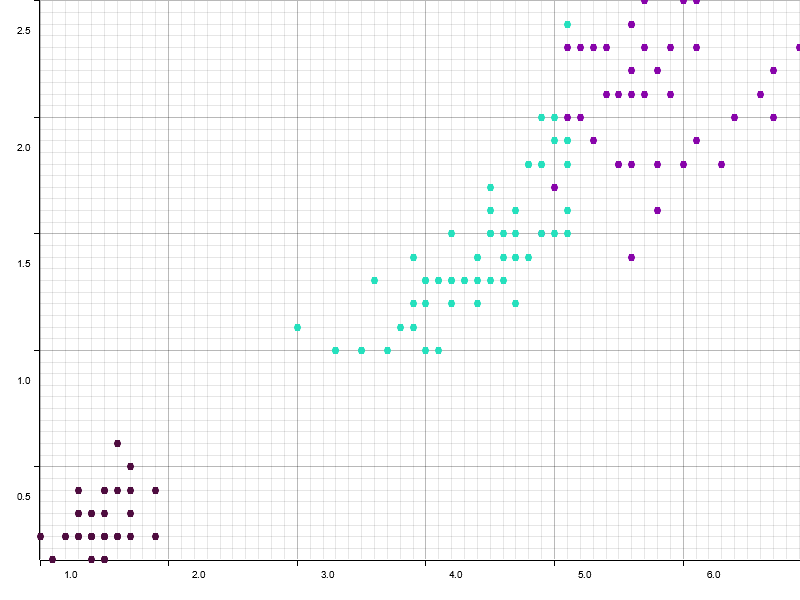
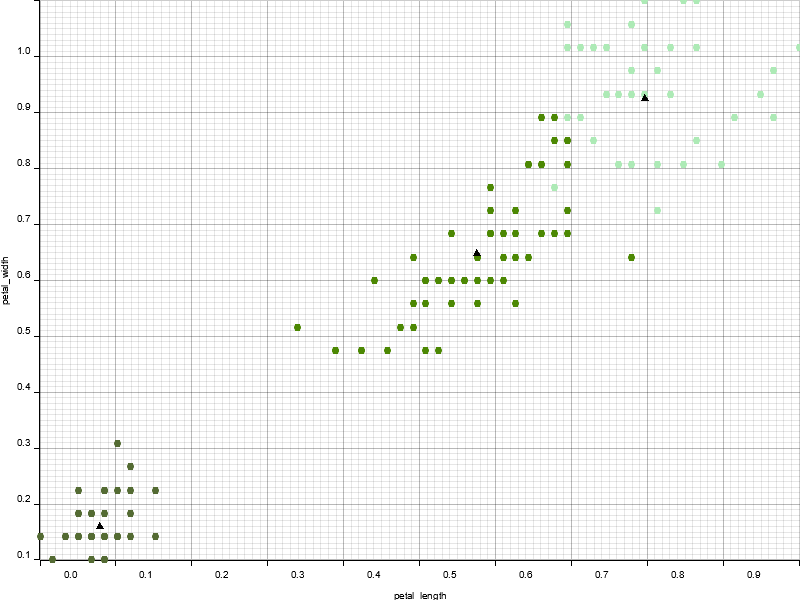
PLOTTING BETWEEN IN PNG OUTPUTS.
do not know when my next commit will be been a little busy I know this is a lot incomplete , but I did my best , the next update will be on the distributions and average feature weighting.

Changed region(s): [[0.0, 0.0, 1.0, 0.96], [0.4688, 0.99, 0.5625, 1.0]]

diff --git a/src/K_Means_Clustering/k_means_clustering.rs b/src/K_Means_Clustering/k_means_clustering.rs
@@ -32,7 +32,7 @@ use plotlib::{page::Page, repr::{Histogram, HistogramBins, Plot}, style::{BoxSty
 
 use plotters::prelude::*;
 use plotters::style::RGBColor;
-
+use plotters::prelude::Histogram as OtherHistogram;
 
 impl k_means_spec<'_> {
     
@@ -46,7 +46,7 @@ impl k_means_spec<'_> {
     /// let foo = df.print_populations();
     /// '''
     /// 
-    /// foo will be of the type vec<usize> and of length df.k.    
+    /// foo will be of the type vec<usize> and of length df.k.   
     pub fn print_populations(&self) -> Vec<usize> {
         self.cluster_populations.clone().unwrap()
     }    
@@ -64,7 +64,7 @@ impl k_means_spec<'_> {
     /// '''
     pub fn encoding_names(&mut self , Names : Vec<String>) {
         //checking for the correct number of names 
-        assert!(Names.len() == self.k , "The number of names provided do not match the k value");
+        assert!(Names.len() == self.k , "The number of names provided do not match the given k value");
 
         self.encodings = Some(Names);
 
@@ -225,7 +225,7 @@ impl k_means_spec<'_> {
         //we normalise this point if we initially normalised the data set.
         match self.normalised {
             true => for i in 0..self.number_of_features {
-                this.push((x[i] - self.min_vector[i]/self.max_vector[i] - self.min_vector[i]));
+                this.push(x[i] - self.min_vector[i]/self.max_vector[i] - self.min_vector[i]);
             },
             false => for ty in x {
                 this.push(*ty);
@@ -253,15 +253,15 @@ impl k_means_spec<'_> {
     }
     //here we write the plotting stuff.
     //we need to consider 1 , 2 , 3  or more than 3 features.
-    pub fn plot(&self , path : &str) {
+    /* pub fn plot(&self , path : &str) {
         match self.number_of_features {
             1 => (),//This is kinda sketchy, like what are we even doing? we should also plot the centroid positions.
-            2 => self.plot_two_dimension(path , 0 , 1),//we will take the names from the indexes, do not worry.
+            2 => //self.plot_two_dimension(path , 0 , 1),//we will take the names from the indexes, do not worry.
             3 => self.plot_three_dimension(path),
             4..=1000 => self.plot_more_than_three_dimen(path),   
             _  => (),//if your df has more than 1000 features or no features at all, fuck you, Ezekiel!, NO, fuck you , Tony!.   
         }    
-    }
+    } */
     
     pub fn get_distributions(&self , path : &str) {
         for i in 0..self.number_of_features {
@@ -270,11 +270,12 @@ impl k_means_spec<'_> {
         }
     }
     //this just to get the scatters of the adjacent features ,before clustering
-    pub fn get_pre_scatters(&self , path : &str) {
+    pub fn get_pre_scatters(&self , path : &str) -> Result<(), Box<dyn std::error::Error>> {
         for i in 0..self.number_of_features - 1 {
-            let image_name = format!("{}pre_scatter_plot_between_{}_and_{}.svg",path ,&self.header_names[i], &self.header_names[i + 1]);
-            self.plot_two_dimension(&image_name , i , i + 1)
+            let image_name = format!("{}pre_scatter_plot_between_{}_and_{}.png",path ,&self.header_names[i], &self.header_names[i + 1]);
+            self.plot_two_dimension(&image_name , i , i + 1)?;
         }
+        Ok(())
     }
 
     pub fn get_post_scatters(&self , path : &str) {
@@ -339,7 +340,7 @@ impl k_means_spec<'_> {
             PointStyle::new()
             .marker(PointMarker::Square)
             .colour("FFFFFF"),
-        ); *///this looks like shit .
+        ); *///this looks like shit.
 
         let v = ContinuousView::new()
             .add(h)
@@ -352,13 +353,13 @@ impl k_means_spec<'_> {
         
     }
 
-    pub fn plot_two_dimension(&self , path : &str , feature_index_1 : usize , feature_index_2 : usize ) {
+    pub fn plot_two_dimension(&self , path : &str , feature_index_1 : usize , feature_index_2 : usize ) -> Result<(), Box<dyn std::error::Error>> {
         let mut data_to_plot: Vec<(f64 , f64)> = vec![ (0.0 , 0.0) ; self.number_of_samples];
         let mut min_x = f64::INFINITY;
         let mut max_x = f64::MIN;
         let mut min_y = f64::INFINITY;
         let mut max_y = f64::MIN;
-        for (index, sample_point) in self.data.iter().enumerate() {
+        for (index, sample_point) in self.data.iter().enumerate(){
             data_to_plot[index] = (sample_point.data[feature_index_1].clone().try_into().unwrap(), sample_point.data[feature_index_2].clone().try_into().unwrap());
             if data_to_plot[index].0 > max_x {
                 max_x = data_to_plot[index].0;
@@ -372,24 +373,32 @@ impl k_means_spec<'_> {
             }
         }
 
+        let color = random_color();
         
-        let s1: Plot = Plot::new(data_to_plot).point_style(
-            PointStyle::new()
-                .marker(PointMarker::Circle) // setting the marker to be a square
-                .colour("#DD3355"),
-        ); 
+        let root = BitMapBackend::new(path , (1024 , 768)).into_drawing_area();
+        root.fill(&WHITE)?;
 
+        let mut scatter_ctx = ChartBuilder::on(&root)
+            .x_label_area_size(40)
+            .y_label_area_size(40)
+            .build_cartesian_2d(min_x..max_x, min_y..max_y)?;
+
+        scatter_ctx
+            .configure_mesh()
+            .x_desc(self.header_names[feature_index_1].to_owned())
+            .y_desc(self.header_names[feature_index_2].to_owned())
+            .draw()?;
         
-        let v = ContinuousView::new()
-            .add(s1)
-            .x_range( min_x , max_x )
-            .y_range( min_y , max_y )
-            .x_label(self.header_names[feature_index_1].clone())
-            .y_label(self.header_names[feature_index_2].clone());
+        scatter_ctx.draw_series(
+            data_to_plot
+                .iter()
+                .map(|&(x , y)| Circle::new((x , y) , 3 ,color.filled()))   
+        )?;
 
-        // A page with a single view is then saved to an SVG file.
-        Page::single(&v).save(path).unwrap();
-
+        root.present().expect("Unable to write result to file, please make sure 'plotters-doc-data' dir exists under current dir");
+    
+        Ok(())
+    
     }
     //Here we need to create different vectors and subplot them.
     //also neeed to plot the centroids wih those same features.
@@ -456,7 +465,7 @@ impl k_means_spec<'_> {
                 .unwrap();
         } 
         //now we need to plot cluster centers
-        for cluster in 0..self.k {
+        for _cluster in 0..self.k {
             chart.draw_series(self.centroids.iter() 
                 .map(|vector| TriangleMarker::new((vector[feature_index_1] , vector[feature_index_2]) , 4 , BLACK.filled()))).unwrap();
         }
@@ -467,13 +476,13 @@ impl k_means_spec<'_> {
 
     
 
-    fn plot_three_dimension(&self , path : &str) {
+    /* fn plot_three_dimension(&self , path : &str) {
 
-    }
+    } */
 
-    fn plot_more_than_three_dimen(&self , path : &str) {
+    /* fn plot_more_than_three_dimen(&self , path : &str) {
 
-    }
+    } */
     
 
 }

diff --git a/src/K_Means_Clustering/k_means_test.rs b/src/K_Means_Clustering/k_means_test.rs
@@ -38,10 +38,11 @@ fn k_means_test_iris() {
     let start_time = time::Instant::now();
 
     //let mut machine = k_means("IRIS.csv", 3, Some((0.0, 8.0)), 0.001 , vec![0,1,2,3]);
-    let mut machine = k_means("src/K_Means_Clustering/IRIS.csv", 3, None, 0.001 , vec![0,1,2,3] , true);
+    let mut machine = k_means("src/K_Means_Clustering/IRIS.csv", 3, None, 0.00001 , vec![0,1,2,3] , true);
     //dbg!(&machine.header_names);
     //machine.get_distributions();
-    //machine.get_pre_scatters("src/");
+    machine.get_pre_scatters("src/");
+    //machine.plot_two_dimension("src/new_oneeeee.png", 1, 2);
     machine.get_post_scatters("src/");
     
     dbg!(&machine.get_varience());
